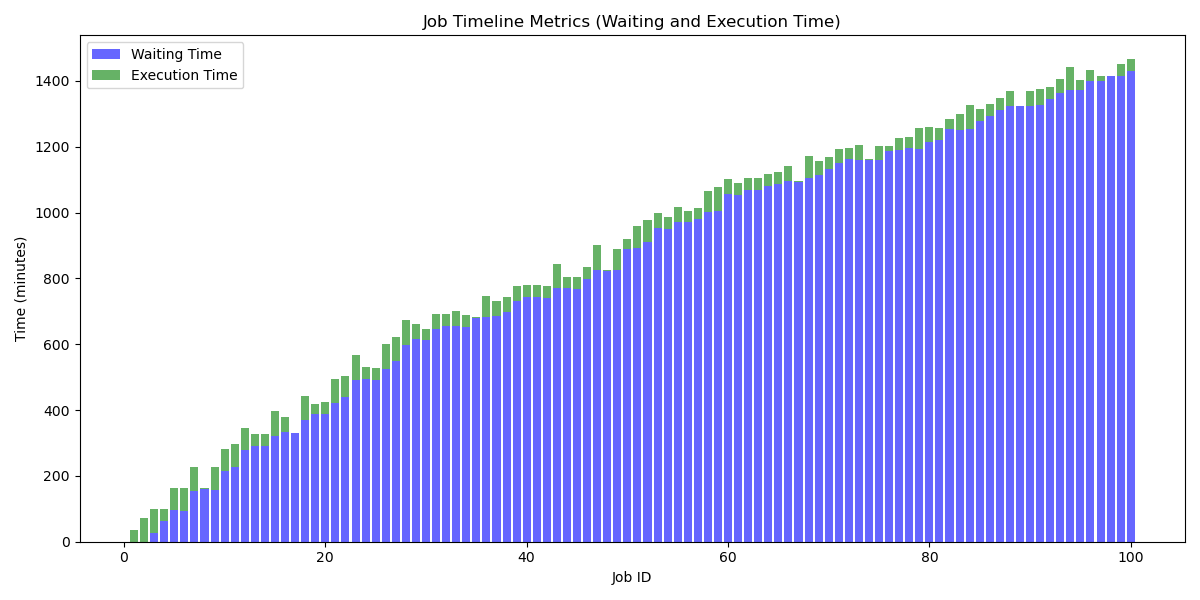
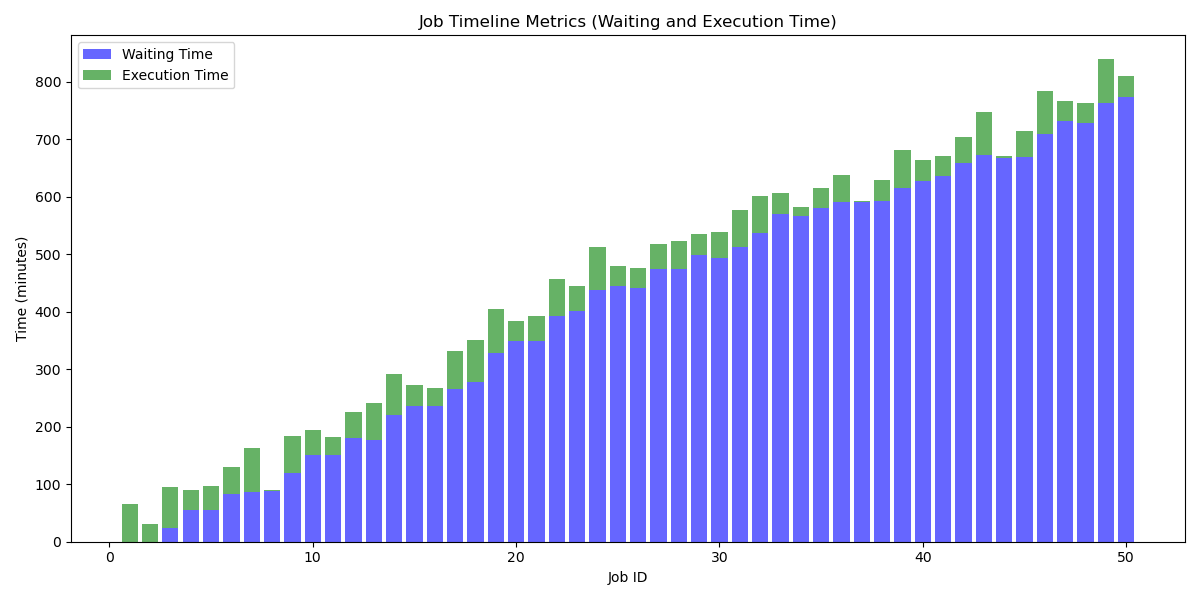
modified for having a trace around 15h

diff --git a/analyzer.py b/analyzer.py
@@ -70,7 +70,7 @@ date_format = '%Y-%m-%d %H:%M:%S'
 
 
 # taking 100 of them
-sampled_sequenced = df_selected_day.iloc[100:200, ]
+sampled_sequenced = df_selected_day.iloc[100:150, ]
 
 import csv
 f = open('philly_trace_100_tasks.csv', 'w')
